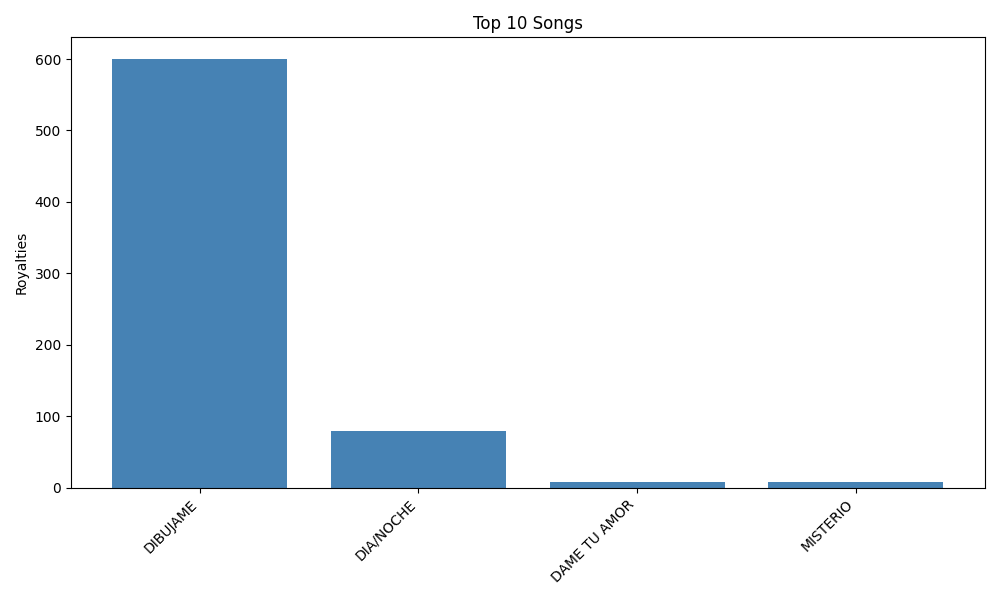
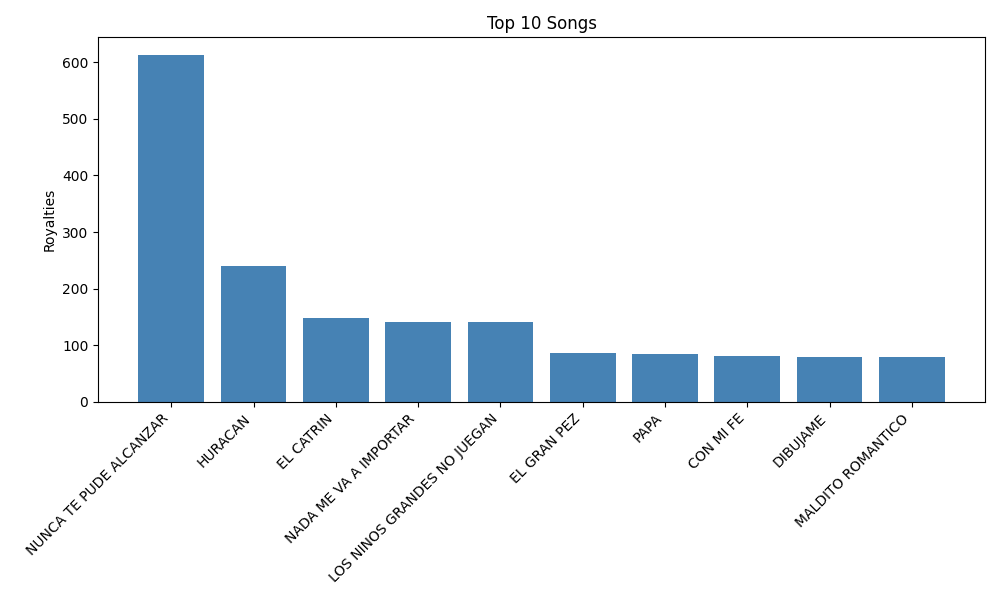
Correccion lentitud

diff --git a/templates/dashboard.html b/templates/dashboard.html
@@ -328,11 +328,7 @@
       <a href="{{ url_for('download_statement', quarter=selected_quarter, year=selected_year) }}" class="btn btn-outline-dark btn-sm">DOWNLOAD STATEMENT</a>
     </div>
     
-    <select id="quarterSelect" class="form-control">
-      {% for quarter in quarters %}
-          <option value="{{ quarter }}" {% if loop.index0 == 0 %}selected{% endif %}>{{ quarter }}</option>
-      {% endfor %}
-  </select>
+   
   
     <div class="row-upper">
       <div class="left-col">

diff --git a/app.py b/app.py
@@ -161,10 +161,13 @@ def clean_statement(df, quarter):
                     total = 0.0
     return total, 0
 
+import openpyxl
+
 def load_excel_data(artist, quarter, year):
     filename = f"{artist}T{quarter}-{year}.xlsx"
     file_path = os.path.join(DATA_FOLDER, filename)
     sheets_data = {}
+
     if not os.path.exists(file_path):
         sheets_data["By Song"] = "<p style='color:red;'>Archivo no encontrado.</p>"
         sheets_data["By Source"] = "<p style='color:red;'>Archivo no encontrado.</p>"
@@ -172,7 +175,7 @@ def load_excel_data(artist, quarter, year):
         return sheets_data
 
     try:
-        df_song = pd.read_excel(file_path, sheet_name="By Song", skiprows=8)
+        df_song = pd.read_excel(file_path, sheet_name="By Song", skiprows=8, nrows=11)
         df_song_clean = clean_by_song(df_song)
         generate_song_bar_chart(df_song_clean)
         sheets_data["By Song"] = df_song_clean.to_html(
@@ -209,15 +212,32 @@ def load_excel_data(artist, quarter, year):
         )
     except Exception as e:
         sheets_data["By Source"] = f"<p style='color:red;'>Error 'By Source': {e}</p>"
+
     try:
-        df_statement = pd.read_excel(file_path, sheet_name="Statement", skiprows=8)
-        tr, _ = clean_statement(df_statement, quarter)
-        sheets_data["total_royalties"] = float(tr or 0) * 0.9  # Aplica el impuesto del 10%
-    except Exception:
+        # Cargar el archivo con openpyxl para mejorar el rendimiento
+        wb = openpyxl.load_workbook(file_path, data_only=True)
+        sheet = wb["Statement"]
+
+        total_royalties = 0.0  # Inicializar variable
+        for row in sheet.iter_rows(min_row=sheet.max_row - 3, max_row=sheet.max_row):  # Solo escanea las últimas 3 filas
+            net_payment_cell = row[15]  # Columna P (índice 15 en openpyxl)
+            amount_cell = row[16]  # Columna Q (índice 16 en openpyxl)
+            
+            if net_payment_cell.value and isinstance(net_payment_cell.value, str) and "Net Payment" in net_payment_cell.value:
+                try:
+                    total_royalties = float(amount_cell.value or 0)  # Captura el valor de la celda en columna Q
+                except ValueError:
+                    total_royalties = 0.0
+                break
+        
+        sheets_data["total_royalties"] = total_royalties
+    except Exception as e:
         sheets_data["total_royalties"] = 0.0
+        print(f"Error en carga de royalties: {e}")  # Imprime el error en caso de falla
 
     return sheets_data
- 
+
+
 def calculate_future_total(artist, selected_quarter, selected_year):
     all_files = os.listdir(DATA_FOLDER)
     pattern = re.compile(re.escape(artist) + r"T(\d)-(\d{4})\.xlsx")
